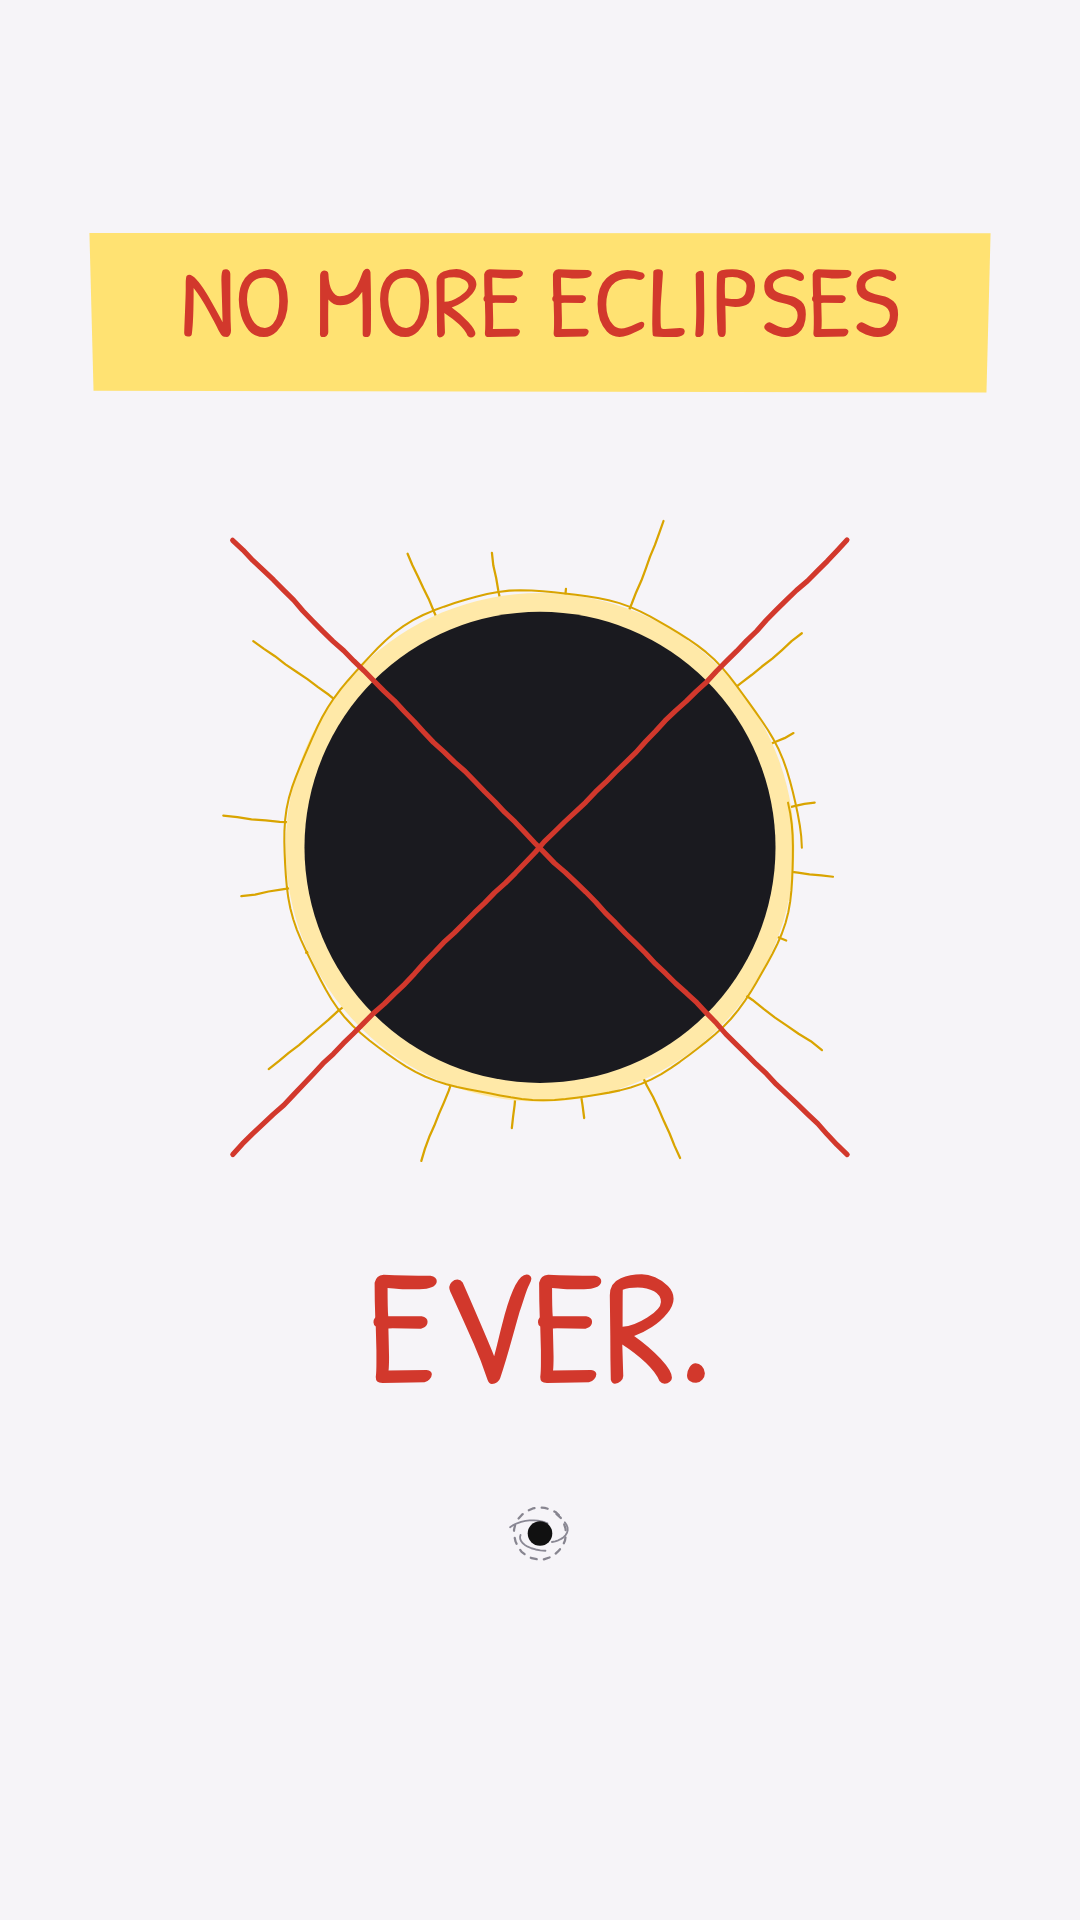
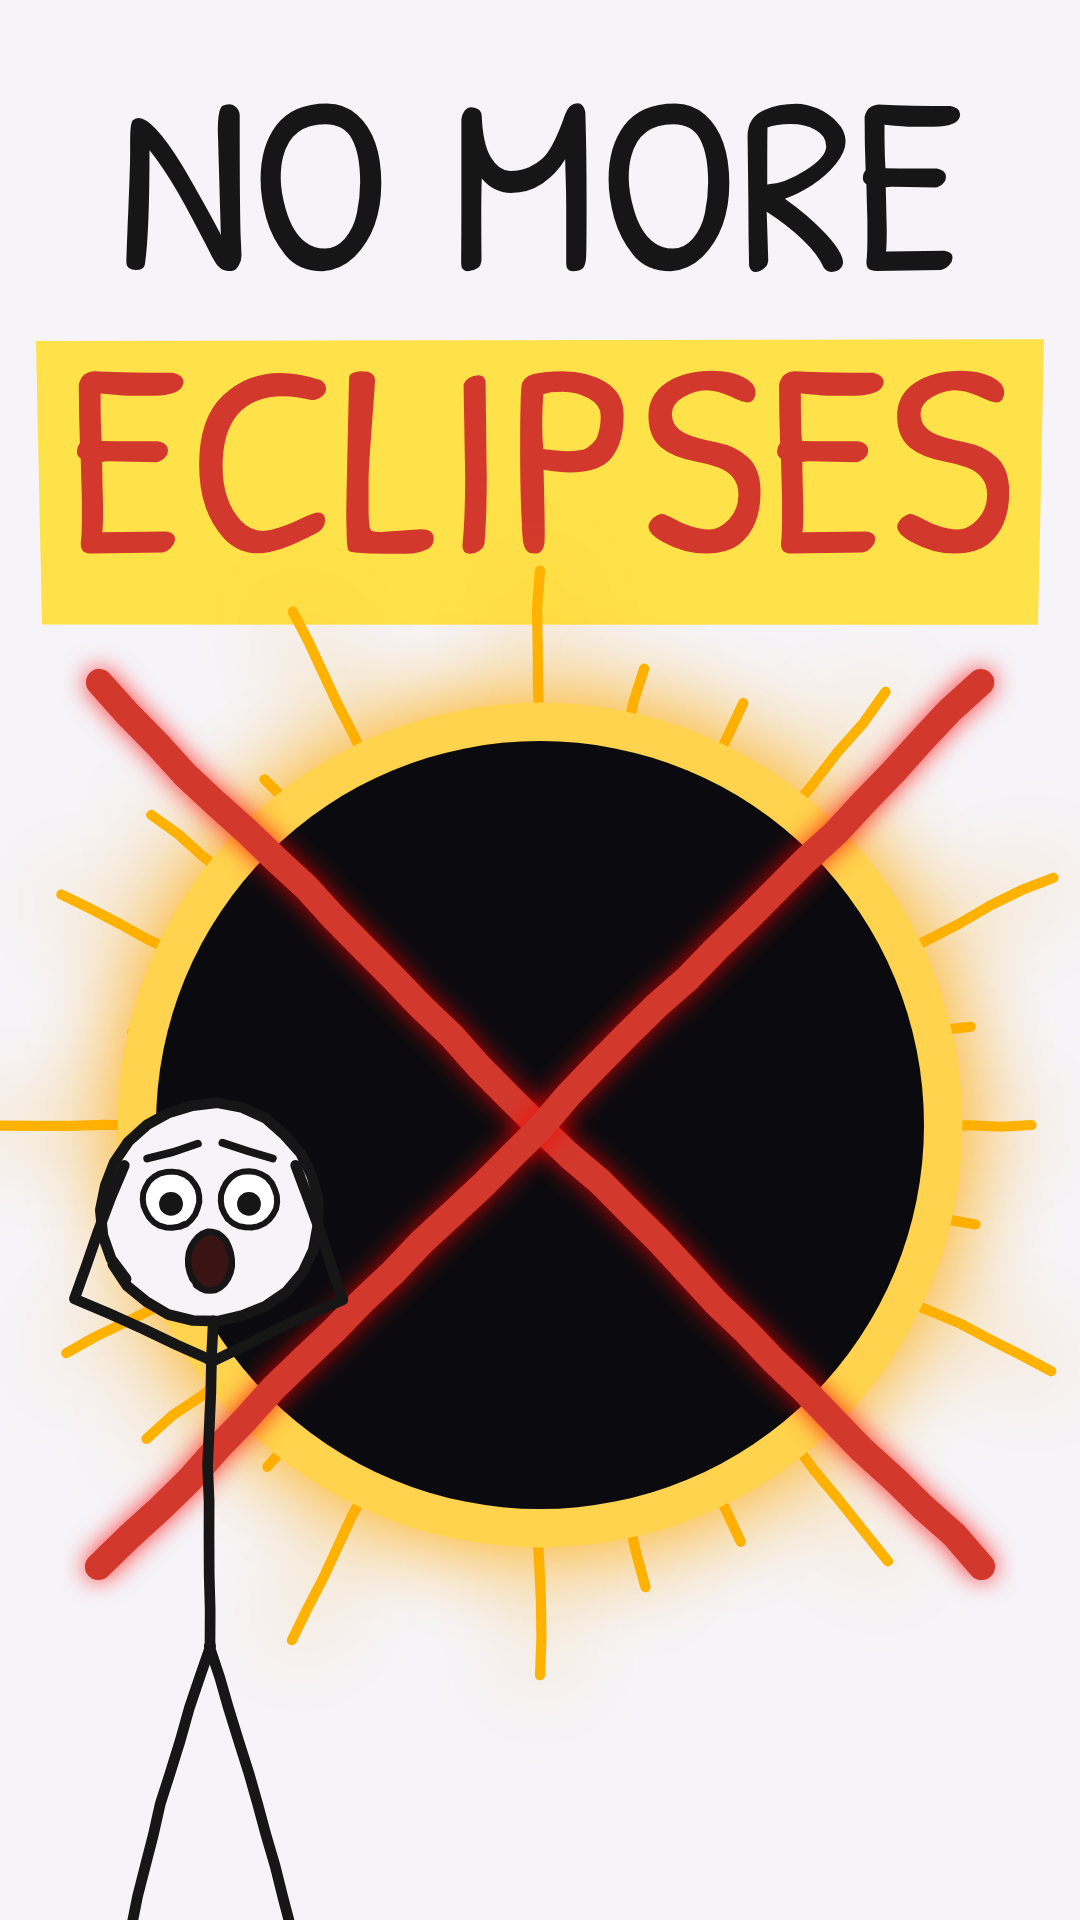
Phone-first covers for shorts 4-6 and thumbnail rules in channel notes
Claude-Session: https://claude.ai/code/session_01QZBGd8qH4EfV1MNE2nHfnB

diff --git a/shorts-source/mobile_covers.js b/shorts-source/mobile_covers.js
@@ -1,0 +1,39 @@
+// Phone-first covers: drawn on a 360x640 virtual canvas, scaled x3 -> every stroke ~10px at 1080x1920
+function glow(c,b){ctx.shadowColor=c;ctx.shadowBlur=b;}function noGlow(){ctx.shadowBlur=0;ctx.shadowColor='transparent';}
+function bar(x,y,w,h,seed,col='#ffe14a'){ctx.save();ctx.fillStyle=col;const R=rng(seed);ctx.beginPath();ctx.moveTo(x,y+R()*3);ctx.lineTo(x+w,y+R()*3);ctx.lineTo(x+w-2,y+h+R()*3);ctx.lineTo(x+2,y+h+R()*3);ctx.closePath();ctx.fill();ctx.restore();}
+function shockFace(x,y,r){for(const sd of[-1,1]){ctx.fillStyle='#fff';ctx.beginPath();ctx.arc(x+sd*r*0.36,y-r*0.12,r*0.26,0,TAU);ctx.fill();circ(x+sd*r*0.36,y-r*0.12,r*0.26,{seed:9000+sd,w:2});
+    ctx.fillStyle=INK;ctx.beginPath();ctx.arc(x+sd*r*0.36,y-r*0.08,r*0.11,0,TAU);ctx.fill();line(x+sd*r*0.12,y-r*0.66,x+sd*r*0.58,y-r*0.5,9010+sd,1,2.6);}
+  ctx.fillStyle='#3a1414';ctx.beginPath();ctx.ellipse(x,y+r*0.45,r*0.2,r*0.27,0,0,TAU);ctx.fill();circ(x,y+r*0.45,r*0.2,{ry:r*0.27,seed:9020,w:2.2});}
+function evilFace(x,y,r){for(const sd of[-1,1]){ctx.fillStyle='#fff';ctx.beginPath();ctx.ellipse(x+sd*r*0.34,y-r*0.1,r*0.22,r*0.15,0,0,TAU);ctx.fill();circ(x+sd*r*0.34,y-r*0.1,r*0.22,{ry:r*0.15,seed:9030+sd,w:2,col:RED});
+    ctx.fillStyle=INK;ctx.beginPath();ctx.arc(x+sd*r*0.3,y-r*0.08,r*0.08,0,TAU);ctx.fill();line(x+sd*r*0.6,y-r*0.45,x+sd*r*0.1,y-r*0.28,9040+sd,1,3,RED);}
+  const g=[];for(let i=0;i<=14;i++){const a=0.15*Math.PI+i/14*0.7*Math.PI;g.push([x+Math.cos(a)*r*0.5,y+r*0.08+Math.sin(a)*r*0.42]);}fillPts([...g,[x-r*0.45,y+r*0.25]],'#fff');strokePts(wob([...g,[x-r*0.45,y+r*0.25]],9050,0.4),1,2.6,RED);
+  for(let i=-2;i<=2;i++)line(x+i*r*0.14,y+r*0.3,x+i*r*0.14,y+r*0.4+Math.cos(i*0.6)*r*0.08,9060+i,1,1.4,RED);}
+const PANIC={la:[-2.0,2.79],ra:[2.0,-2.79],ll:[-0.3,-0.24],rl:[0.3,0.24],paper:0};
+function cover(kind){ctx.setTransform(1,0,0,1,0,0);ctx.fillStyle=BG;ctx.fillRect(0,0,W,H);ctx.scale(3,3);const t=1.2;
+  if(kind==='twin'){
+    bar(18,28,324,178,11);txt('EVIL',180,78,100,{col:RED});txt('TWIN',180,160,100,{col:RED});
+    // red danger glow behind the twin
+    const g=ctx.createRadialGradient(262,400,10,262,400,190);g.addColorStop(0,'rgba(255,40,30,0.55)');g.addColorStop(1,'rgba(255,40,30,0)');ctx.fillStyle=g;ctx.fillRect(60,220,300,420);
+    mirrorFrame(180,232,640,1);
+    figure(92,650,PANIC,{s:1.25,seed:9100});shockFace(92,650-264*1.25,38*1.25);
+    glow('rgba(255,30,20,0.9)',40);figure(268,650,mirrorPose(POSES.point),{s:1.25,seed:9110});noGlow();horns(268,650,1.25,1);evilFace(268,650-264*1.25,38*1.25);
+  }else if(kind==='eclipse'){
+    txt('NO MORE',180,68,84,{});bar(12,112,336,96,13);txt('ECLIPSES',180,160,92,{col:RED});
+    const X=180,Y=375,R=128;
+    glow('rgba(255,170,0,1)',90);for(let i=0;i<28;i++){const a=i/28*TAU;const l=R*(1.28+0.22*Math.sin(i*3.7));line(X+Math.cos(a)*R*1.04,Y+Math.sin(a)*R*1.04,X+Math.cos(a)*l,Y+Math.sin(a)*l,9200+i,1,3.4,'#ffb300');}
+    ctx.fillStyle='#ffd34d';ctx.beginPath();ctx.arc(X,Y,R*1.1,0,TAU);ctx.fill();noGlow();
+    ctx.fillStyle='#0b0b0f';ctx.beginPath();ctx.arc(X,Y,R,0,TAU);ctx.fill();
+    glow('rgba(255,0,0,0.8)',24);line(X-R*1.15,Y-R*1.15,X+R*1.15,Y+R*1.15,9230,1,9,RED);line(X+R*1.15,Y-R*1.15,X-R*1.15,Y+R*1.15,9231,1,9,RED);noGlow();
+    figure(70,655,PANIC,{s:0.95,seed:9240});shockFace(70,655-264*0.95,38*0.95);
+  }else{ // colder than space
+    txt('COLDER',180,76,104,{col:'#1764c4'});bar(14,118,332,90,15);txt('THAN SPACE',180,162,68,{});
+    const X=190,Y=385,R=92;
+    glow('rgba(80,200,255,1)',90);ctx.strokeStyle='#7fd8ff';ctx.lineWidth=6;ctx.beginPath();ctx.arc(X,Y,R*1.18,0,TAU);ctx.stroke();noGlow();
+    for(let i=0;i<16;i++){const a=i/16*TAU;const l=R*(1.35+0.25*((i*7)%3)/2);line(X+Math.cos(a)*R*1.22,Y+Math.sin(a)*R*1.22,X+Math.cos(a)*l,Y+Math.sin(a)*l,9300+i,1,3,'#3fb5f0');}
+    ctx.fillStyle='#050508';ctx.beginPath();ctx.arc(X,Y,R,0,TAU);ctx.fill();
+    for(const[sx,sy]of[[300,260],[60,330],[320,520],[120,240]]){for(let k=0;k<3;k++){const a=k/3*Math.PI;line(sx-Math.cos(a)*12,sy-Math.sin(a)*12,sx+Math.cos(a)*12,sy+Math.sin(a)*12,9320+k+sx,1,2.4,'#3fb5f0');}}
+    figure(70,655,POSES.chin,{s:0.95,seed:9340});shockFace(70,655-264*0.95,38*0.95);shakeMarks(70,655-264*0.95,40,9350,1);
+  }
+}
+window.ready=Promise.all([document.fonts.load('40px "PH"'),document.fonts.load('40px "PHL"')]).then(()=>document.fonts.ready).then(()=>cover(window.KIND));
+</script></body></html>

diff --git a/CLAUDE.md b/CLAUDE.md
@@ -18,6 +18,19 @@ The user writes in Arabic — reply in Arabic; on-screen text and scripts are in
 - Make 3–4 shorts per long episode; each short gets "Related video" → its long video.
 - Short audio = cut from the long video's final mix (short fades at the joins) + an impact at 0.
 
+## Thumbnails & covers — phone first (~90% of viewers watch on phones)
+1. **Thick strokes:** draw on a small virtual canvas and scale up (covers: 360×640 ×3; 16:9: 640×360 ×3) so every
+   ink line is ≥ ~10 px at full size (≥ 4–6 px at display size). Thin detail disappears on a phone.
+2. **Main subject fills 60–70% of the frame:** zoom in on the key moment; cut empty white space.
+3. **One saturated focal point:** only the core of the event gets strong colour (pure red, fiery orange/gold glow,
+   coal-black with a yellow or icy-blue glow) to break the white background.
+4. **Text = 2–3 huge words in the top third only:** bold, on a yellow bar if needed. No small sub-lines, nothing in
+   the bottom quarter or along the right edge (covered by the app's buttons, title and view count).
+5. **Big stick figure with a clear reaction:** close to the disaster, wide eyes/open mouth (shock) or an evil grin —
+   faces pull the eye even in simple drawings.
+- Always check a 180×320 (Shorts) or 320×180 (long) downscale before publishing.
+- Builder: `shorts-source/mobile_covers.js`.
+
 ## Style (see `moon-protons/source/sketch*.html`, `moon-antimatter/source/`)
 - Black ink on #f6f4f8, red #d2382c for emphasis only, light yellow highlight on thumbnails.
 - Font: Patrick Hand SC (labels), Patrick Hand for the lowercase "e" in e⁻/e⁺.
